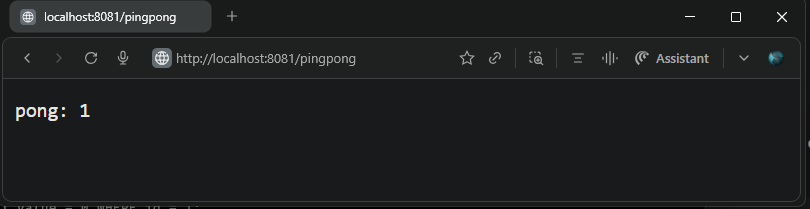
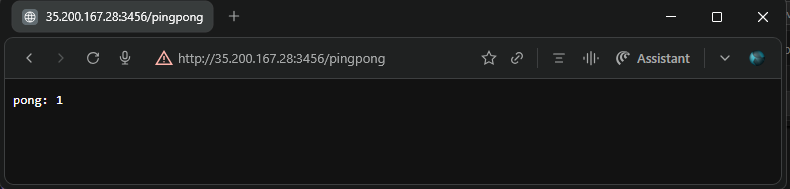
Code for Exercise 3.1. Pingpong GKE

diff --git a/ping-pong/README.md b/ping-pong/README.md
@@ -1,29 +1,17 @@
-## Exercise 2.7. Stateful applications
+## Exercise 3.1. Pingpong GKE
 
-Run a `Postgres` database as a stateful set and save the `Ping-pong` application counter into the database.
+Deploy Ping-pong application into GKE.
 
-**Resource Updates**
+**Key Changes from Base**
+- [`ping-pong/manifests/service.yaml`](./manifests/service.yaml) - Changed `type: ClusterIP` → `type: LoadBalancer`
+- [`postgresql/postgresql-statefulset.yaml`](../postgresql/postgresql-statefulset.yaml) - Commented out `storageClassName: local-path`, letting GKE use default
 
-- **Created [`postgresql/`](../postgresql/) directory** with new manifests for stateful PostgreSQL deployment:
-  - [`postgresql-configmap.yaml`](../postgresql/postgresql-configmap.yaml): Defines Postgres initialization env vars and app connection vars.
-  - [`postgresql-service.yaml`](../postgresql/postgresql-service.yaml): Headless Service `clusterIP: None` for stable pod DNS discovery `postgresql-db-svc.exercises.svc.cluster.local`.
-  - [`postgresql-statefulset.yaml`](../postgresql/postgresql-statefulset.yaml): StatefulSet with 2 replicas, `envFrom` referencing ConfigMap and `volumeClaimTemplates` (100Mi local-path storage)
-- **Updated `ping-pong` app [`deployment.yaml`](./manifests/deployment.yaml)**:
-  - Added `envFrom` reference to `postgres-db-config` ConfigMap for database connectivity.
-  - Pod template now receives Postgres connection details automatically.
-
-## Application Updates
-
-- **Refactored `ping-pong/pingpong.py`** from in-memory counter to PostgreSQL with asyncpg and SQLAlchemy ORM:
-  - Replaced in-memory `Counter` with PostgreSQL-backed counter using `pingpong_counter` table.
-  - `/pingpong` endpoint atomically increments the counter and returns the new value in a single database operation.
-  - `/pings` endpoint fetches the current counter by selecting the stored value from the pingpong_counter table where the record ID is 1.
-  - Startup event creates table schema and initializes id=1, value=0 row if missing.
-
-- Base application versions used:  
-  - [Ping pong v2.1](https://github.com/arkb2023/devops-kubernetes/tree/2.1/ping-pong)  
+- Base versions used:  
+  - [Ping pong v2.7](https://github.com/arkb2023/devops-kubernetes/tree/2.7/ping-pong)  
+  - [Docker image v2.7.2](https://hub.docker.com/repository/docker/arkb2023/ping-pong/tags/2.7.2)  
 
 ***
+
 
 ### 1. **Directory and File Structure**
 <pre>
@@ -44,82 +32,77 @@ postgresql/
 ***
 
 
-### 2. Prerequisites
+### 2. Prerequisites (GCP/GKE)
 
-- Ensure the following tools are installed:
-  - Docker  
-  - k3d (K3s in Docker)  
-  - kubectl (Kubernetes CLI)
-- Create and run a Kubernetes cluster with k3d, using 2 agent nodes and port mapping to expose the ingress load balancer on host port 8081:
-    ```bash
-    k3d cluster create mycluster --agents 2 --port 8081:80@loadbalancer
-    ```
-- `project` namespace created in the cluster
-    ```bash
-    kubectl create exercises project
-    ```
+- **Google Cloud CLI** (`gcloud`) updated to 548.0.0
+- **kubectl** (Kubernetes CLI) with `gke-gcloud-auth-plugin`
+- **GCP Project**: `dwk-gke-480015` configured
 
-***
-
-### 3. Build and Push the Docker Image to DockerHub
-
+**Cluster Creation**:
 ```bash
-cd ping-pong
-docker build -t arkb2023/ping-pong:2.7.2 .
-docker push arkb2023/ping-pong:2.7.2
+gcloud container clusters create dwk-cluster
+--zone=asia-south1-a
+--cluster-version=1.32
+--disk-size=32
+--num-nodes=3
+--machine-type=e2-micro
 ```
-> Docker images are published at:  
-https://hub.docker.com/repository/docker/arkb2023/ping-pong/tags/2.7.2  
-
-### 4. **Deploy to Kubernetes**
-
-**Apply the `ping-pong` application and `postgress` Manifests**  
-
 ```bash
-kubectl apply \
-  -n exercises \
-  -f postgresql/ \
-  -f ping-pong/manifests/
+gcloud container clusters get-credentials dwk-cluster --zone=asia-south1-a
 ```
-*Output*
-```text
-configmap/postgres-db-config created
-service/postgresql-db-svc created
-statefulset.apps/postgresql-db created
-deployment.apps/ping-pong-dep created
-ingress.networking.k8s.io/dwk-ping-pong-ingress created
-service/ping-pong-svc created
+- **`project` namespace creation:**
+```bash
+kubectl create namespace exercises
 ```
 
 ***
 
-### Validate
+### 3. **Deploy to Kubernetes**
 
-- **Postgres pods are Running and PVCs are Bound:**
+**Apply PostgreSQL and ping-pong manifests**:  
+```bash
+kubectl apply -n exercises -f postgresql/
+kubectl apply -n exercises -f ping-pong/manifests/
+```
 
-  **Verify pod status:**
+
+### 4. Validate
+
+- **Verify PVCs bound successfully**:  
   ```bash
-  kubectl -n exercises get pods
+  kubectl get pvc -n exercises
   ```
-  *Output:*
+  *Output*
   ```text
-  NAME                            READY   STATUS    RESTARTS   AGE
-  ping-pong-dep-5fd4696644-67lt7 1/1     Running   0          14m
-  postgresql-db-0                1/1     Running   0          49m
-  postgresql-db-1                1/1     Running   0          49m
+  NAME                                 STATUS   VOLUME                                     CAPACITY   ACCESS MODES   STORAGECLASS   VOLUMEATTRIBUTESCLASS   AGE
+  postgresql-db-disk-postgresql-db-0   Bound    pvc-b9c205ca-7398-41fc-a099-c942d53ca11d   1Gi        RWO            standard       <unset>                 19m
+  postgresql-db-disk-postgresql-db-1   Bound    pvc-42d60e2e-6f94-438e-a3f4-04ff9e7b244c   1Gi        RWO            standard       <unset>                 13m
   ```
 
-  **Verify PVC status:**
+- **Verify all pods Running**:
   ```bash
-  kubectl -n exercises get pvc
+  kubectl get pods -n exercises
   ```
-  *Output:*
+  *Output*
   ```text
-  NAME                                STATUS   VOLUME                                     CAPACITY   ACCESS MODES   STORAGECLASS   VOLUMEATTRIBUTESCLASS   AGE
-  postgresql-db-disk-postgresql-db-0  Bound    pvc-8f5cd105-8565-4fab-b15e-1dc1a17aee18  100Mi      RWO            local-path     <unset>                    42m
-  postgresql-db-disk-postgresql-db-1  Bound    pvc-2ad2c4bd-5184-42e4-a88a-9f8709e12035  100Mi      RWO            local-path     <unset>                    42m
+  NAME                             READY   STATUS    RESTARTS   AGE
+  ping-pong-dep-6dd57fcf7f-fh8s8   1/1     Running   0          17m
+  ping-pong-dep-cd4c69b85-xwkj9    1/1     Running   0          31s
+  postgresql-db-0                  1/1     Running   0          20m
+  postgresql-db-1                  1/1     Running   0          19m
   ```
+- **Connect to Postgres to check data**
+  ```bash
+  kubectl exec -it -n exercises postgresql-db-0 -- bashsh
+  ```
+  *Output*
+  ```text
+  root@postgresql-db-0:/# psql -U testdbuser -d testdb
+  psql (18.1 (Debian 18.1-1.pgdg13+2))
+  Type "help" for help.
 
+  testdb=#
+  ```
 - **Get initial value by hitting `/pings` HTTP endpoint:**  
   Verify the application response value matches the Postgres database value.  
 
@@ -129,13 +112,14 @@ service/ping-pong-svc created
 
   - Database query confirms `0`:  
     ```bash
-    SELECT * FROM pingpong_counter;
+    testdb=# SELECT * FROM pingpong_counter;
+    ```
     ```
     *Output:*  
     ```text
     id | value
     ----+-------
-     1 |     0
+      1 |     0
     (1 row)
     ```
 
@@ -194,11 +178,12 @@ service/ping-pong-svc created
     ```
     *Output:*  
     ```text
-    NAME                            READY   STATUS        RESTARTS   AGE
-    ping-pong-dep-5fd4696644-67lt7 1/1     Terminating   0          36m
-    ping-pong-dep-bd5dbfd55-hvvpb  1/1     Running       0          28s
-    postgresql-db-0                1/1     Running       0          71m
-    postgresql-db-1                1/1     Running       0          71m
+    NAME                             READY   STATUS              RESTARTS   AGE
+    ping-pong-dep-6dd57fcf7f-fh8s8   1/1     Running             0          17m
+    ping-pong-dep-cd4c69b85-xwkj9    0/1     ContainerCreating   0          9s
+    postgresql-db-0                  1/1     Running             0          19m
+    postgresql-db-1                  1/1     Running             0          19m
+    ping-pong-dep-cd4c69b85-xwkj9    1/1     Running             0          10s
     ```
     ```bash
     kubectl -n exercises get pods
@@ -206,9 +191,10 @@ service/ping-pong-svc created
     *Output:*  
     ```text
     NAME                           READY   STATUS    RESTARTS   AGE
-    ping-pong-dep-bd5dbfd55-hvvpb 1/1     Running   0          81s
-    postgresql-db-0                1/1     Running   0          72m
-    postgresql-db-1                1/1     Running   0          72m
+    ping-pong-dep-6dd57fcf7f-fh8s8   1/1     Running   0          17m
+    ping-pong-dep-cd4c69b85-xwkj9    1/1     Running   0          31s
+    postgresql-db-0                  1/1     Running   0          20m
+    postgresql-db-1                  1/1     Running   0          19m
     ```
 
   - `/pingpong` returns `pong: N+1` continuing from the previous value:  
@@ -233,33 +219,23 @@ service/ping-pong-svc created
 
 **Delete Manifests** 
   ```bash
-  kubectl delete \
-    -n exercises \
-    -f postgresql/ \
-    -f ping-pong/manifests/
+  kubectl delete -n exercises -f ping-pong/manifests/
+  kubectl delete -n exercises -f postgresql/
   ```
-  *Output*
-  ```text
-  configmap "postgres-db-config" deleted from exercises namespace
-  service "postgresql-db-svc" deleted from exercises namespace
-  statefulset.apps "postgresql-db" deleted from exercises namespace
-  deployment.apps "ping-pong-dep" deleted from exercises namespace
-  ingress.networking.k8s.io "dwk-ping-pong-ingress" deleted from exercises namespace
-  service "ping-pong-svc" deleted from exercises namespace
-  ```
-
+  
 **Stop the k3d Cluster**  
 ```bash
-k3d cluster delete k3s-default
+gcloud container clusters delete dwk-cluster --zone=asia-south1-a
 ```
 *Output*
 ```text
-INFO[0000] Deleting cluster 'k3s-default'
-INFO[0003] Deleting cluster network 'k3d-k3s-default'
-INFO[0003] Deleting 1 attached volumes...
-INFO[0003] Removing cluster details from default kubeconfig...
-INFO[0003] Removing standalone kubeconfig file (if there is one)...
-INFO[0003] Successfully deleted cluster k3s-default!
+The following clusters will be deleted.
+ - [dwk-cluster] in [asia-south1-a]
+
+Do you want to continue (Y/n)?  Y
+
+Deleting cluster dwk-cluster...done.
+Deleted [https://container.googleapis.com/v1/projects/dwk-gke-480015/zones/asia-south1-a/clusters/dwk-cluster].
 ```
 
 ---
